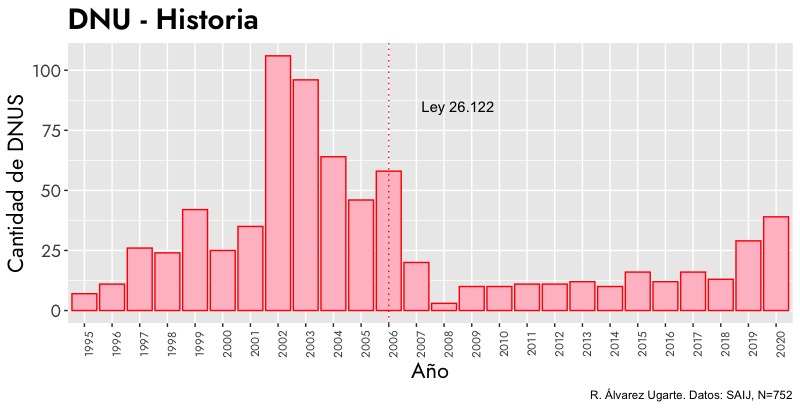
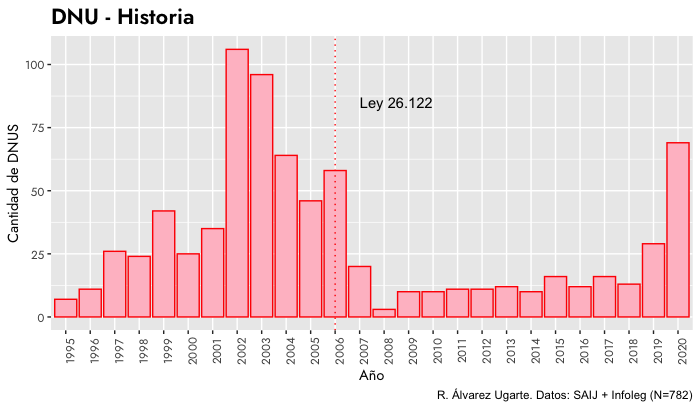
rebuilding site Mon Jun 15 11:57:20 -03 2020

diff --git a/blog/dnus/index.html b/blog/dnus/index.html
@@ -68,7 +68,7 @@ Estuve mirando los datos sobre los dictamenes de la comisión bicameral que sigu
 &mdash; Rama (@ramiroau) June 14, 2020  Me interesaba mirar los datos de DNU y fui a la fuente original, Infoleg y SAIJ.">
 <meta itemprop="datePublished" content="2020-06-14T00:00:00&#43;00:00" />
 <meta itemprop="dateModified" content="2020-06-14T00:00:00&#43;00:00" />
-<meta itemprop="wordCount" content="918">
+<meta itemprop="wordCount" content="942">
 
 
 
@@ -220,11 +220,11 @@ Estuve mirando los datos sobre los dictamenes de la comisión bicameral que sigu
 <blockquote class="twitter-tweet"><p lang="es" dir="ltr">Estuve mirando los datos sobre los dictamenes de la comisión bicameral que sigue los DNU dictados del Congreso. Sobre un N=219: <br><br>- Recomienda validez del DNU = 190<br>- Recomienda invalidez del DNU = 19<br>- Empate (la comisión tiene 16 miembros) = 4<br>- No logra mayoría = 6</p>&mdash; Rama (@ramiroau) <a href="https://twitter.com/ramiroau/status/1272196601478631425?ref_src=twsrc%5Etfw">June 14, 2020</a></blockquote>
 <script async src="https://platform.twitter.com/widgets.js" charset="utf-8"></script>
 
-<p>Me interesaba mirar los datos de DNU y fui a la fuente original, <em>Infoleg</em> y <em>SAIJ</em>. Éste último resultó ser <a href="http://www.saij.gob.ar/resultados.jsp?r=%20fecha-rango%3A%5B19950101%20TO%2020200613%5D&amp;o=0&amp;p=25&amp;f=Total%7CTipo%20de%20Documento/Legislaci%F3n/Decreto/Decreto%20de%20Necesidad%20y%20Urgencia%7CFecha%7COrganismo%7CPublicaci%F3n%7CTema%7CEstado%20de%20Vigencia%7CAutor%7CJurisdicci%F3n/Nacional&amp;v=colapsada">más amigable a la hora de escrapear los datos</a> y así terminé con un dataset con DNUs dictados entre 1995 y 2020 de 752. La pregunta que me guiaba era ver la evolución del uso y detectar el aumento de 2020 (que es evidente).</p>
+<p>Me interesaba mirar los datos de DNU y fui a la fuente original, <em>Infoleg</em> y <em>SAIJ</em>. Éste último resultó ser <a href="http://www.saij.gob.ar/resultados.jsp?r=%20fecha-rango%3A%5B19950101%20TO%2020200613%5D&amp;o=0&amp;p=25&amp;f=Total%7CTipo%20de%20Documento/Legislaci%F3n/Decreto/Decreto%20de%20Necesidad%20y%20Urgencia%7CFecha%7COrganismo%7CPublicaci%F3n%7CTema%7CEstado%20de%20Vigencia%7CAutor%7CJurisdicci%F3n/Nacional&amp;v=colapsada">más amigable a la hora de escrapear los datos</a> y así terminé con un dataset con DNUs dictados entre 1995 y 2020 de 782<sup id="fnref:1"><a href="#fn:1" class="footnote-ref" role="doc-noteref">1</a></sup>. La pregunta que me guiaba era ver la evolución del uso y detectar el aumento de 2020 (que es evidente).</p>
 <p><img src="/pics/dnus.png" alt="" title="DNUS 1995-2020"></p>
-<p>Pero también me interesaba saber qué pasó con cada uno de esos DNUS. ¿Son revisados por el Congreso? ¿Son aprobados, rechazados? ¿Reciben el tratamiento del silencio y&mdash;ergo&mdash;la validez? Los datos para responder estas últimas preguntas no están fácilmente disponibles pero en el <a href="https://datos.hcdn.gob.ar/">sitio de datos abiertos de Diputados</a> hay un <a href="https://datos.hcdn.gob.ar/dataset/dictamenes/resource/59595a93-5a5e-4ba6-a3db-c1044e2f949e">lindo dataset con información sobre los dictamenes de las comisiones</a>. Eso permite filtrar por la Comisión Bicameral de Trámite Legislativo, la que creó la ley 26.122 que vino a cumplir&mdash;años tarde&mdash;con lo dispuesto por el artículo 99.3 de la Constitución. Con base en ese dataset es posible inferir los resultados porque en la columna <code>dictamen_observaciones</code> se da bastante información, p.ej.:</p>
+<p>Pero también me interesaba saber qué pasó con cada uno de esos DNUS. ¿Son revisados por el Congreso? ¿Son aprobados, rechazados? ¿Reciben el tratamiento del silencio y&mdash;ergo&mdash;la validez? Los datos para responder estas últimas preguntas no están fácilmente disponibles pero en el <a href="https://datos.hcdn.gob.ar/">sitio de datos abiertos de Diputados</a> hay un <a href="https://datos.hcdn.gob.ar/dataset/dictamenes/resource/59595a93-5a5e-4ba6-a3db-c1044e2f949e">lindo dataset con información sobre los dictámenes de las comisiones</a>. Eso permite filtrar por la Comisión Bicameral de Trámite Legislativo, la que creó la ley 26.122 que vino a cumplir&mdash;años tarde&mdash;con lo dispuesto por el artículo 99.3 de la Constitución. Con base en ese dataset es posible inferir los resultados porque en la columna <code>dictamen_observaciones</code> se da bastante información, p.ej.:</p>
 <p><code>DICTAMEN DE MAYORIA: LA COMISION ACONSEJA APROBAR UN PROYECTO DE RESOLUCION Y DECLARAR LA VALIDEZ DEL DECRETO 2 DICTAMENES DE MINORIA: UNO ACONSEJA APROBAR EL DECRETO Y OTRO ACONSEJA RECHAZAR EL MISMO</code></p>
-<p>Con esa información es bastante fácil construir una columna nueva en la que se diga si la mayoría recomienda declarar la validez del decreto o recomienda rechazarlo. El análisis de esos datos me pareció muy significativo <sup id="fnref:1"><a href="#fn:1" class="footnote-ref" role="doc-noteref">1</a></sup>.</p>
+<p>Con esa información es bastante fácil construir una columna nueva en la que se diga si la mayoría recomienda declarar la validez del decreto o recomienda rechazarlo. El análisis de esos datos me pareció muy significativo <sup id="fnref:2"><a href="#fn:2" class="footnote-ref" role="doc-noteref">2</a></sup>.</p>
 <table>
 <thead>
 <tr>
@@ -306,21 +306,24 @@ Estuve mirando los datos sobre los dictamenes de la comisión bicameral que sigu
 </tr>
 </tbody>
 </table>
-<p>La abrumadora mayoría de dictamenes de la Comisión recomiendan darle validez al DNU que viene desde el ejecutivo. Sólo en un puñado menor de casos el dictamen de mayoría recomienda declarar la &ldquo;invalidez&rdquo; del mismo. En aún menos casos se da un empate (la comisión tiene 16 miembros, 8 diputados y 8 senadores) y en otro puñado de casos no se logra dictamen de mayoría. Los datos pueden tener sus errores, porque el análisis fue realizado relativamente rápido (habría que profundizarlo si esto va a ser más que un post) pero de todas formas, la tendencia parece bastante clara: los DNU tienen altísimas chances de ser aprobados por el mecanismo de control que prevé la ley 26.121.</p>
+<p>La abrumadora mayoría de dictámenes de la Comisión recomiendan darle validez al DNU que viene desde el ejecutivo. Sólo en un puñado menor de casos el dictamen de mayoría recomienda declarar la &ldquo;invalidez&rdquo; del mismo. En aún menos casos se da un empate (la comisión tiene 16 miembros, 8 diputados y 8 senadores) y en otro puñado de casos no se logra dictamen de mayoría. Los datos pueden tener sus errores, porque el análisis fue realizado relativamente rápido (habría que profundizarlo si esto va a ser más que un post) pero de todas formas, la tendencia parece bastante clara: los DNU tienen altísimas chances de ser aprobados por el mecanismo de control que prevé la ley 26.121.</p>
 <p>Creo que un análisis en esta dirección debería profundizarse, por al menos dos razones.</p>
-<p>En primer lugar, la doctrina constitucional de casos como <em>Verrochi</em> o <em>Consumidores Argentinos</em> es la vieja historia que a veces repetimos acríticamente en las clases: la reforma constitucional de 1994 vino a &ldquo;atenuar el presidencialismo&rdquo; y sólo en condiciones de rigurosa excepcionalidad los DNU son legítimos.</p>
+<p>En primer lugar, la doctrina constitucional de casos como <em>Verrochi</em> o <em>Consumidores Argentinos</em> es la vieja historia que a veces repetimos en las clases: la reforma constitucional de 1994 vino a &ldquo;atenuar el presidencialismo&rdquo; y sólo en condiciones de rigurosa excepcionalidad los DNU son legítimos.</p>
 <blockquote>
 <p>&ldquo;Que todo lo aquí expuesto no permite albergar dudas en cuanto a que la Convención reformadora de 1994 pre- tendió atenuar el sistema presidencialista, fortaleciendo el rol del Congreso y la mayor independencia del Poder Judicial (confr. en igual sentido &ldquo;Verrocchi&rdquo;, Fallos: 322:1726, y sus citas). De manera que es ese el espíritu que deberá guiar a los tribunales de justicia tanto al determinar los alcances que corresponde asignar a las previsiones del art. 99, inciso 3, de la Constitución Nacional, como al revisar su efectivo cumplimiento por parte del Poder Ejecutivo Nacional en ocasión de dictar un decreto de necesidad y urgencia&rdquo; (Consumidores Argentinos, cdo. 13).</p>
 </blockquote>
-<p>Los datos antes analizados sugieren, al menos provisionalmente, que esta doctrina constitucional no controla en la práctica lo que hace el Congreso en ejercicio de la facultad constitucional de revisión que prevé el artículo 99.3. Sobre 219 dictamenes, 190 recomiendan darle validez al DNU del ejecutivo (!).</p>
-<p>Esta distancia es importante por una segunda razón: afirmamos&mdash;creo que con razón&mdash;que los derechos constitucionales sólo se pueden limitar por medio de leyes en sentido formal y material, siguiendo principios constitucionales y de derechos humanos (OC 6/86). Pero tenemos un montón de ejemplos en contrario, y el Congreso parece aprobar sin mayores inconvenientes muchos de estos decretos: los casos de &ldquo;los decretos de la Pandemia&rdquo; apoyan esta conclusión de forma bastante clara, como surge de <a href="https://www.senado.gov.ar/parlamentario/comisiones/info/105">las reuniones de comisión que todavía no llegaron al dataset de dictamenes</a>.</p>
+<p>Los datos antes analizados sugieren, al menos provisionalmente, que esta doctrina constitucional no controla en la práctica lo que hace el Congreso en ejercicio de la facultad constitucional de revisión que prevé el artículo 99.3. Sobre 219 dictámenes, 190 recomiendan darle validez al DNU del ejecutivo (!).</p>
+<p>Esta distancia es importante por una segunda razón: afirmamos&mdash;creo que con razón&mdash;que los derechos constitucionales sólo se pueden limitar por medio de leyes en sentido formal y material, siguiendo principios constitucionales y de derechos humanos (OC 6/86). Pero tenemos un montón de ejemplos en contrario, y el Congreso parece aprobar sin mayores inconvenientes muchos de estos decretos: los casos de &ldquo;los decretos de la Pandemia&rdquo; apoyan esta conclusión de forma bastante clara, como surge de <a href="https://www.senado.gov.ar/parlamentario/comisiones/info/105">las reuniones de comisión que todavía no llegaron al dataset de dictámenes</a>.</p>
 <p>Esta &ldquo;realidad constitucional&rdquo; sugiere que Rodolfo Barra, finalmente, ganó. No tengo a mano su <em>Tratado de Derecho Administrativo</em> pero Barra&mdash;siguiendo cierto fervor hiperpresidencialista&mdash;sostenía que el verbo &ldquo;urgir&rdquo; del artículo 99.3 debía interpretarse políticamente, como la facultad del PEN de forzar al Congreso a actuar. El hecho de que el DNU se mantenga vigente mientras el Congreso no actúe en contrario y que el silencio del Congreso deriva en la validez del DNU respetaba, para Barra, la realidad constitucional (que gente como Vermeule o Posner <a href="https://www.amazon.es/Executive-Unbound-After-Madisonian-Republic/dp/0199765332">podrían apoyar</a> en EEUU) de que la primacía política de las democracias modernas pasa por el ejecutivo.</p>
 <p>Creo que tenemos un problema.</p>
 <section class="footnotes" role="doc-endnotes">
 <hr>
 <ol>
 <li id="fn:1" role="doc-endnote">
-<p>Este dataset no distingue entre DNUS / decretos delegados &mdash; No encontré una forma sencilla de distinguirlos. <a href="#fnref:1" class="footnote-backref" role="doc-backlink">&#x21a9;&#xfe0e;</a></p>
+<p>En una versión anterior del gráfico había unos 30 dnus <em>menos</em> porque SAIJ no está actualizado. Se actualizaron los datos con información de Infoleg. <a href="#fnref:1" class="footnote-backref" role="doc-backlink">&#x21a9;&#xfe0e;</a></p>
+</li>
+<li id="fn:2" role="doc-endnote">
+<p>Este dataset no distingue entre DNUS / decretos delegados &mdash; No encontré una forma sencilla de distinguirlos. <a href="#fnref:2" class="footnote-backref" role="doc-backlink">&#x21a9;&#xfe0e;</a></p>
 </li>
 </ol>
 </section>

diff --git a/etc/wikis/the_age_of_hope/index.html b/etc/wikis/the_age_of_hope/index.html
@@ -196,6 +196,10 @@
         <img src="/etc/wikis/the_age_of_hope/20200605_091646.jpg" title="20200605_091646.jpg" />
       </div>
     
+      <div class='Gallery__item'>
+        <img src="/etc/wikis/the_age_of_hope/20200615_061627.jpg" title="20200615_061627.jpg" />
+      </div>
+    
   </div>
 
   
